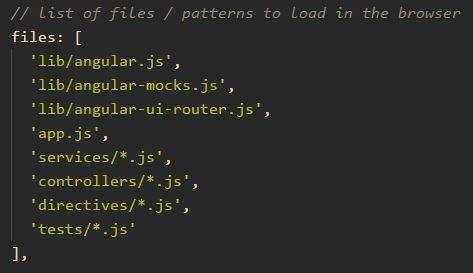
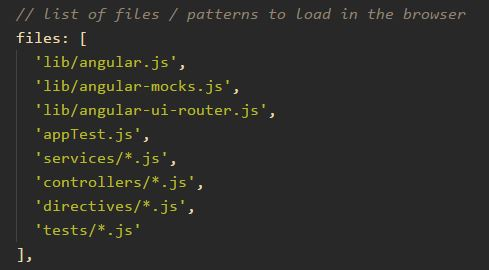
add appTest.js and update my.conf.js file to match

diff --git a/my.conf.js b/my.conf.js
@@ -18,7 +18,7 @@ module.exports = function(config) {
       'lib/angular.js',
       'lib/angular-mocks.js',
       'lib/angular-ui-router.js',
-      'app.js',
+      'appTest.js',
       'services/*.js',
       'controllers/*.js',
       'directives/*.js',
@@ -62,7 +62,7 @@ module.exports = function(config) {
 
     // start these browsers
     // available browser launchers: https://npmjs.org/browse/keyword/karma-launcher
-    browsers: ['Chrome'],
+    browsers: [],
 
 
     // Continuous Integration mode

diff --git a/tests/directiveTests.js b/tests/directiveTests.js
@@ -42,6 +42,16 @@ describe('aGreatEye directive test', function() {
   });
 });
 
+describe('alertUser Directive test', function() {
+  var element, scope;
+
+  beforeEach(module('courseRoster'));
+
+  beforeEach(inject(function($compile, $rootScope) {
+    element = angular.element("<alert-user alert='alertUser(alertMessage)'></alert-user>")
+  }))
+})
+
 describe('changeClass Directive test', function() {
   var element, scope;
 

diff --git a/index.html b/index.html
@@ -4,7 +4,6 @@
     <title>Registrar</title>
     <script src="lib/angular.js"></script>
     <script src="lib/angular-ui-router.js"></script>
-    <script src="lib/angular-mocks.js"></script>
     <script src="app.js"></script>
     <script src="controllers/CoursesController.js"></script>
     <script src="controllers/StudentsController.js"></script>

diff --git a/appTest.js b/appTest.js
@@ -1,4 +1,4 @@
-var courseRoster = angular.module('courseRoster', ['ui.router']);
+var courseRoster = angular.module('courseRoster', ['ui.router', 'ngMock']);
 
 courseRoster.config(function($stateProvider, $urlRouterProvider) {
   $stateProvider.state('home', {
